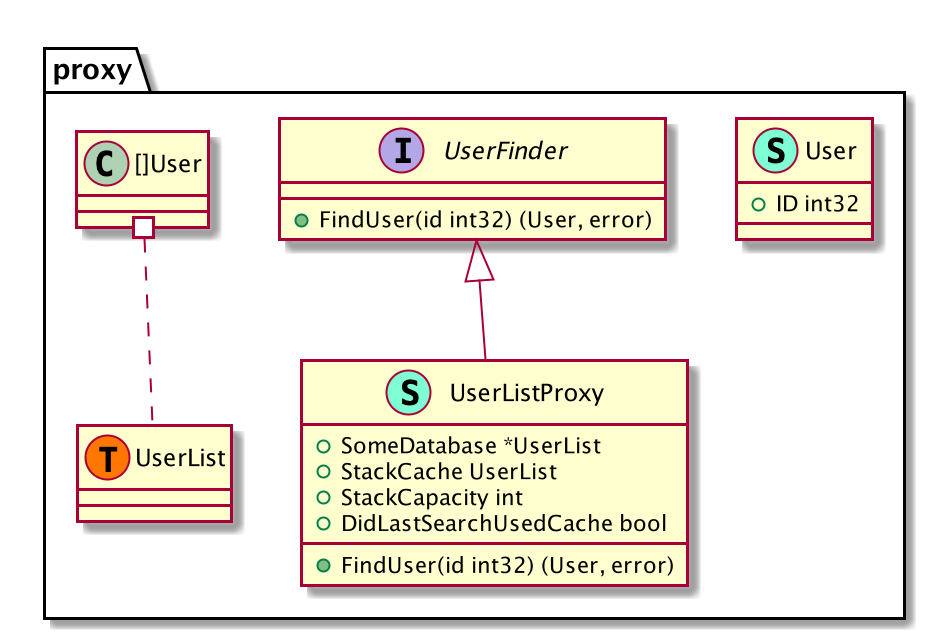
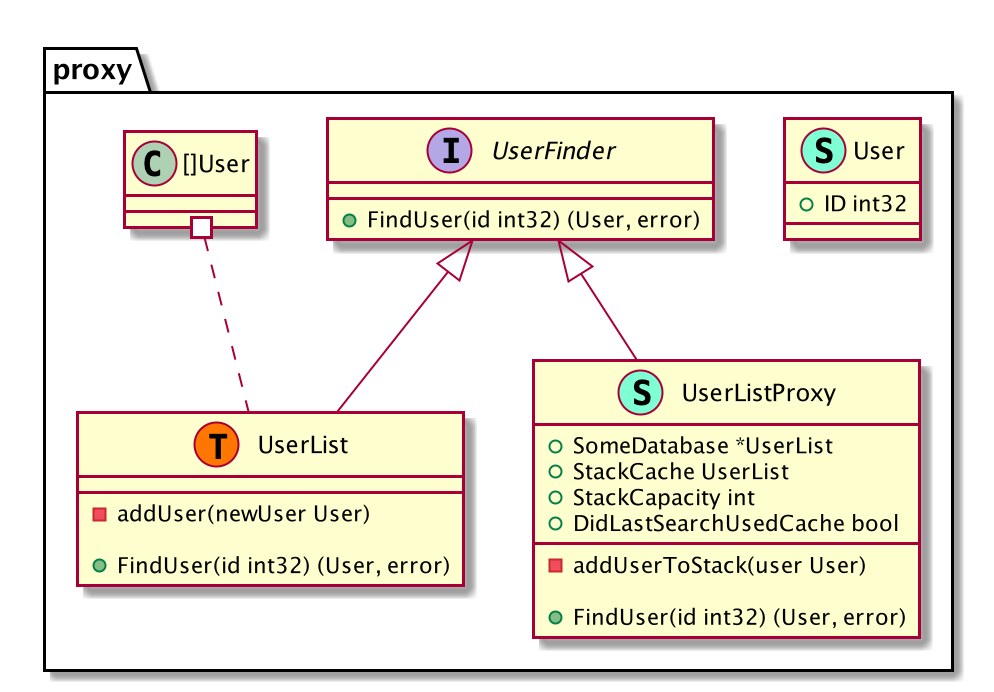
finish proxy test

diff --git a/structural/proxy/proxy.go b/structural/proxy/proxy.go
@@ -1,6 +1,8 @@
 package proxy
 
-import "errors"
+import (
+	"fmt"
+)
 
 //remote proxy: rpc net proxy
 //virtual proxy: big image database
@@ -16,6 +18,20 @@ type User struct {
 //db
 type UserList []User
 
+func (u *UserList) addUser(newUser User) {
+	*u = append(*u, newUser)
+}
+
+func (u *UserList) FindUser(id int32) (User, error) {
+	for i := 0; i < len(*u); i++ {
+		if (*u)[i].ID == id {
+			return (*u)[i], nil
+		}
+	}
+
+	return User{}, fmt.Errorf("User %d could not be found\n", id)
+}
+
 type UserListProxy struct {
 	SomeDatabase           *UserList
 	StackCache             UserList
@@ -23,6 +39,30 @@ type UserListProxy struct {
 	DidLastSearchUsedCache bool
 }
 
+func (u *UserListProxy) addUserToStack(user User) {
+	if len(u.StackCache) >= u.StackCapacity {
+		u.StackCache = append(u.StackCache[1:], user)
+	} else {
+		u.StackCache.addUser(user)
+	}
+}
+
 func (u *UserListProxy) FindUser(id int32) (User, error) {
-	return User{}, errors.New("not implemented yet")
+	user, err := u.StackCache.FindUser(id)
+	if err == nil {
+		fmt.Println("Returning user from cache")
+		u.DidLastSearchUsedCache = true
+		return user, nil
+	}
+
+	user, err = u.SomeDatabase.FindUser(id)
+	if err != nil {
+		return User{}, err
+	}
+
+	u.addUserToStack(user)
+
+	fmt.Println("Returning user from database")
+	u.DidLastSearchUsedCache = false
+	return user, nil
 }
